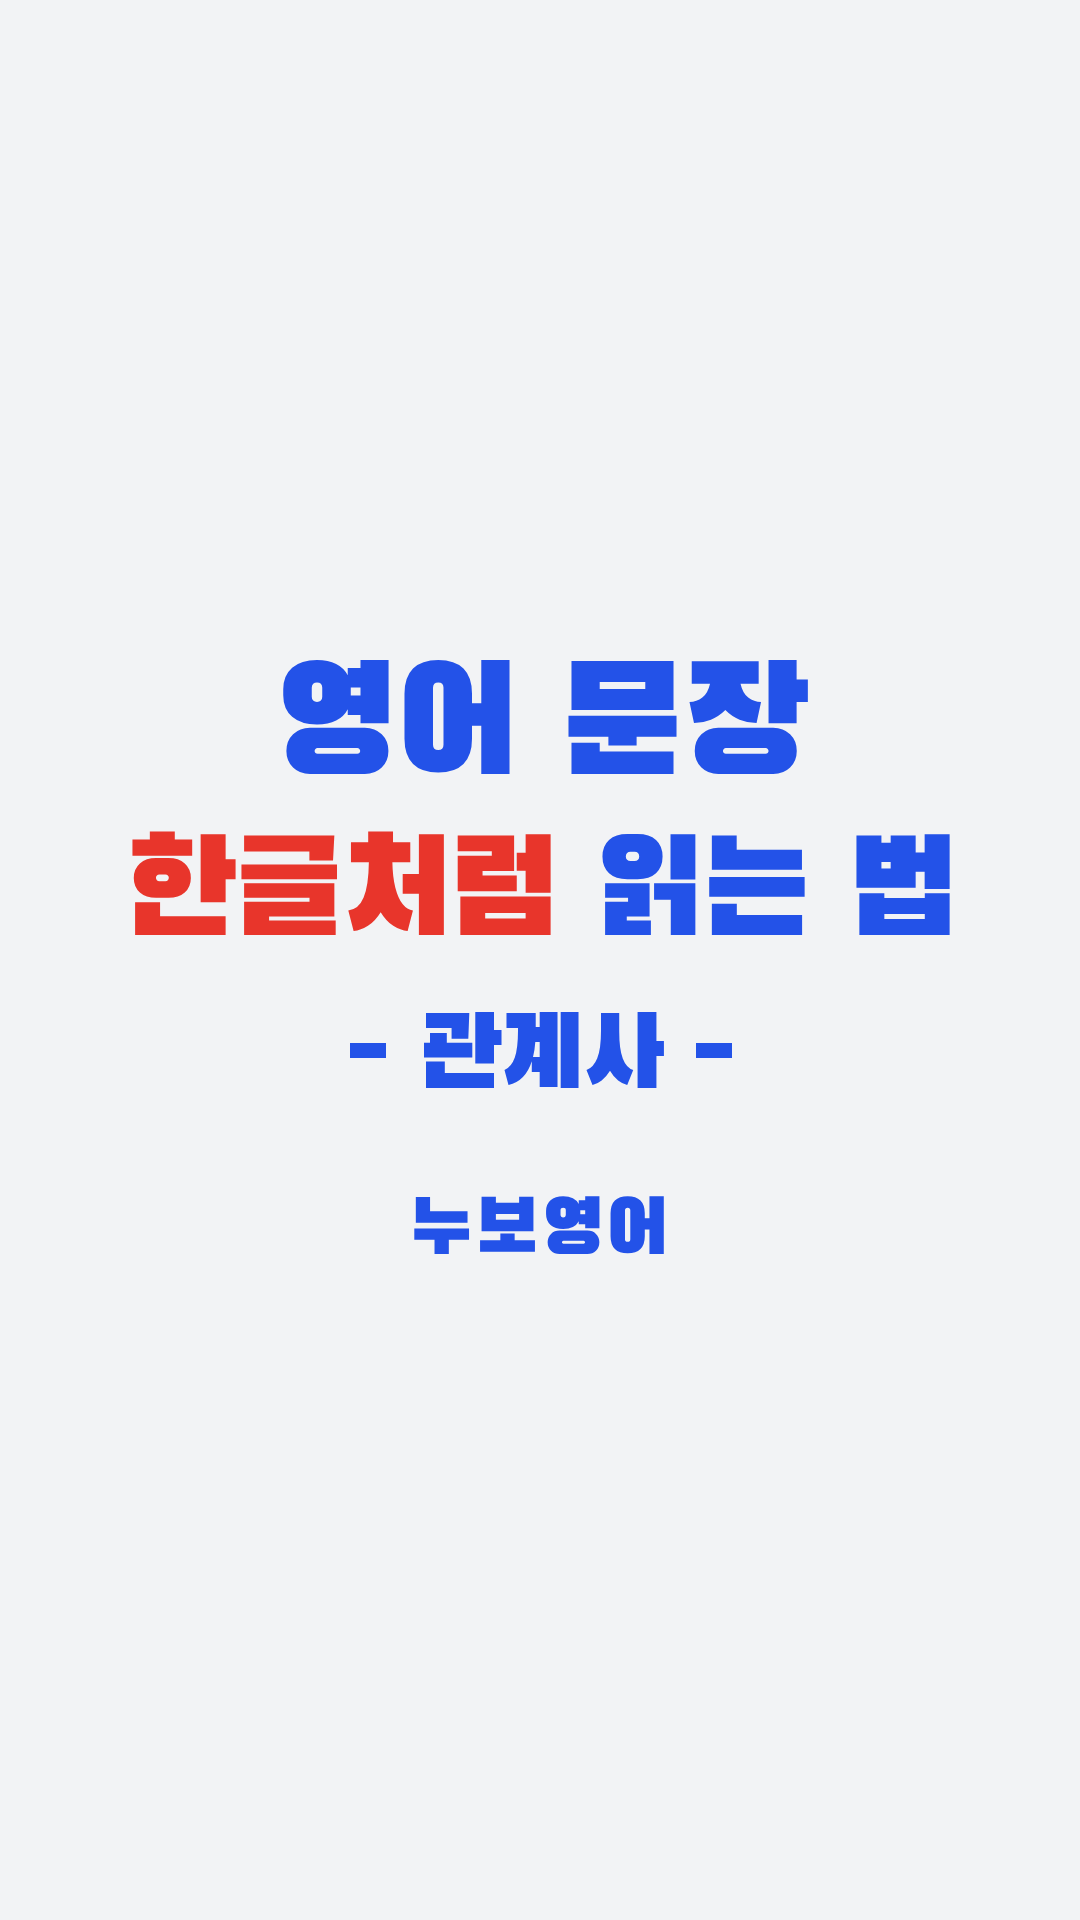
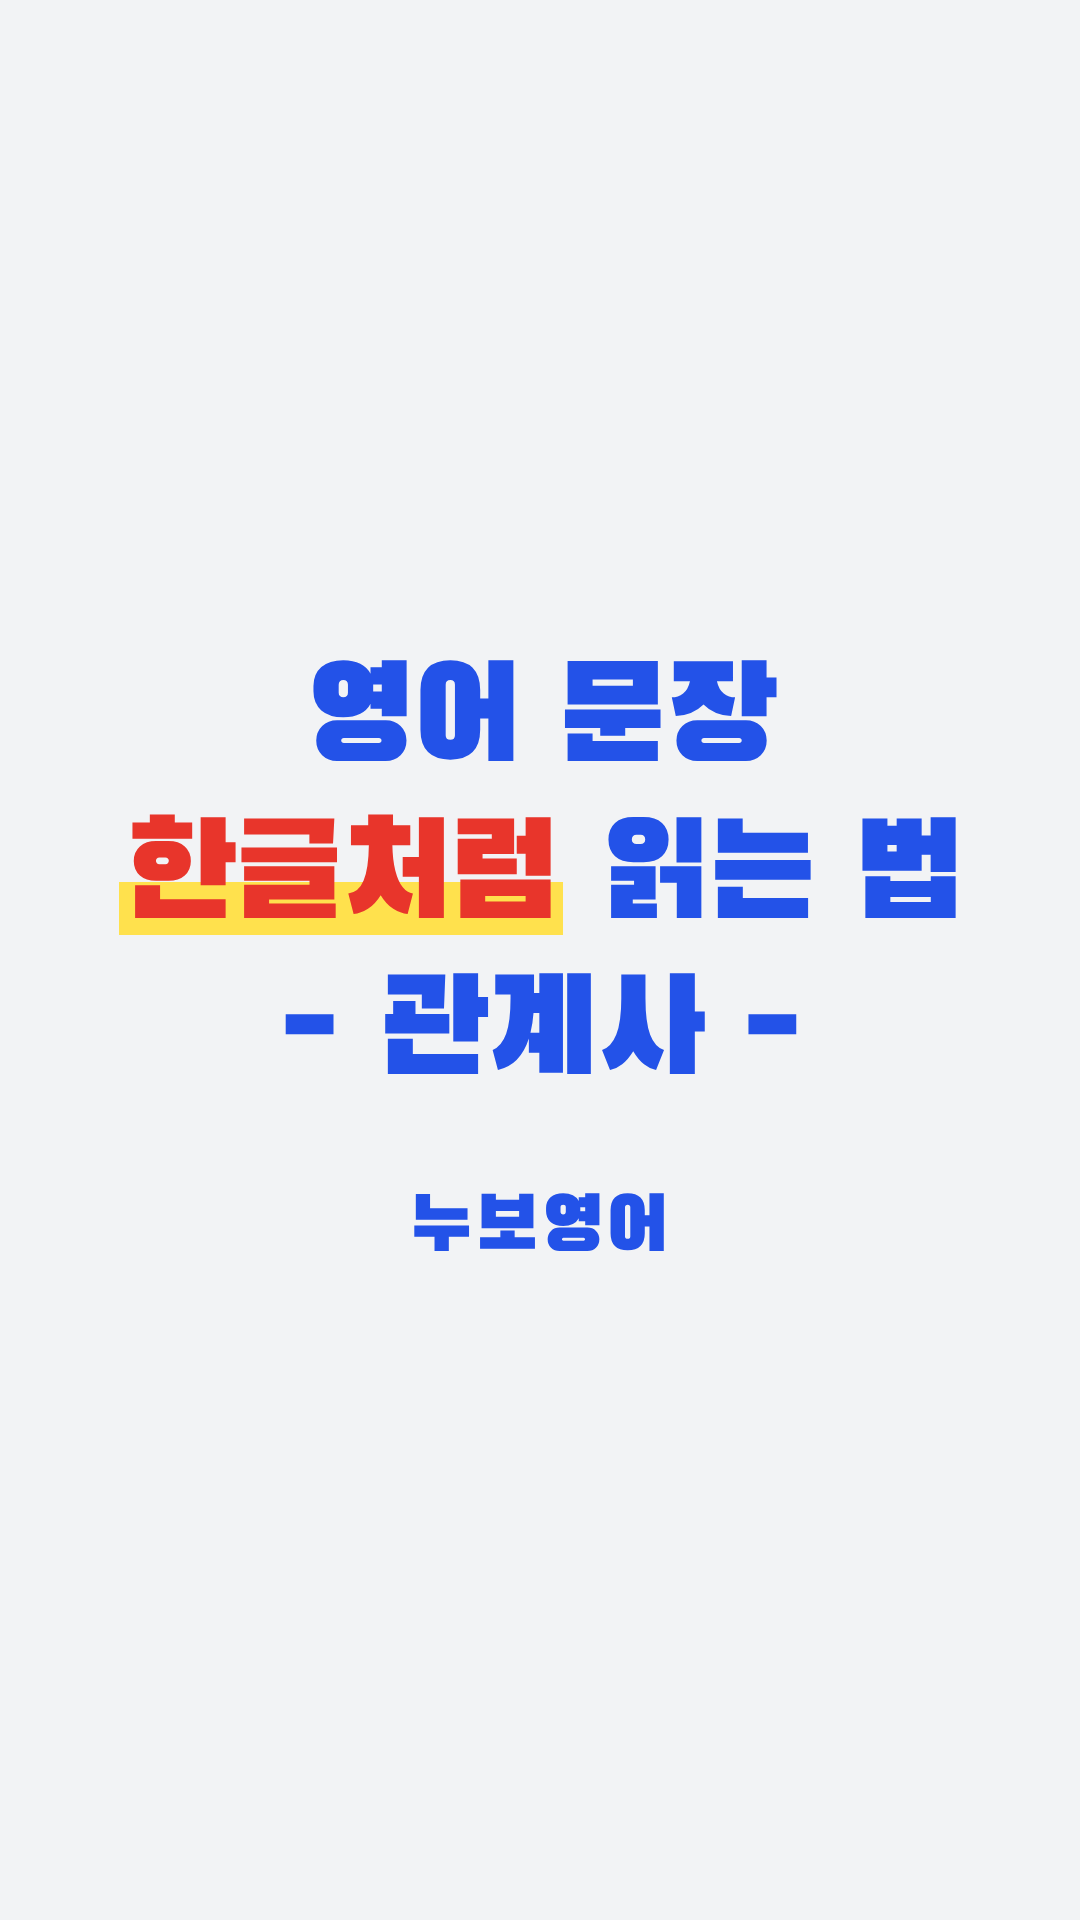
Relative-clause covers: uniform line size, highlighted accent
Claude-Session: https://claude.ai/code/session_01Rym27oCy7NFVPU9s4bdxz4

diff --git a/motion/src/tip/Cover.tsx b/motion/src/tip/Cover.tsx
@@ -5,36 +5,43 @@ import '../fonts';
 
 /** Reel cover. Text stays inside the centre 3:4 area so the profile-grid crop keeps it. Line markup: {accent}. */
 const BLUE = '#2352E8', RED = '#E8352B';
-export type CoverProps = {dark?: boolean; lines?: string[]; bg?: string};
+export type CoverProps = {dark?: boolean; lines?: string[]; bg?: string; uniform?: boolean};
 const DEFAULT = ['해석 못해도', '{주제 1분컷}', '하는 법'];
 
-// A line that is entirely {..} is the big red accent line; {..} inside a line colours just that part.
-const Line: React.FC<{t: string; dark?: boolean}> = ({t: raw, dark}) => {
+const em = (t: string) => [...t.replace(/[{}_]/g, '')].reduce((w, c) => w + (c === ' ' ? 0.3 : /[가-힣]/.test(c) ? 0.98 : 0.6), 0);
+
+// A line that is entirely {..} is the big red accent line; {..} inside a line is the accent word (red on a yellow marker band).
+// With `uniform`, every line uses the same size (the largest that fits the widest line).
+const Line: React.FC<{t: string; dark?: boolean; size?: number}> = ({t: raw, dark, size: forced}) => {
   let t = raw;
   const small = t.startsWith('_');            // '_text' = smaller sub-line
   if (small) t = t.slice(1);
   const whole = /^\{[^}]*\}$/.test(t);
   const base = dark ? '#fff' : BLUE;
-  const em = [...t.replace(/[{}]/g, '')].reduce((w, c) => w + (c === ' ' ? 0.3 : /[가-힣]/.test(c) ? 0.98 : 0.6), 0);
-  const size = Math.min(small ? 100 : whole ? 172 : 150, 990 / em);   // never wider than the frame
+  const size = forced ?? Math.min(small ? 100 : whole ? 172 : 150, 990 / em(t));
   return (
-    <div style={{fontSize: size, color: whole ? RED : base, whiteSpace: 'nowrap', marginTop: small ? 24 : 0}}>
-      {t.split(/(\{[^}]+\})/).filter(Boolean).map((p, i) => p.startsWith('{') ? <span key={i} style={{color: RED}}>{p.slice(1, -1)}</span> : <React.Fragment key={i}>{p}</React.Fragment>)}
+    <div style={{fontSize: size, color: whole ? RED : base, whiteSpace: 'nowrap', marginTop: small && !forced ? 24 : 0}}>
+      {t.split(/(\{[^}]+\})/).filter(Boolean).map((p, i) => p.startsWith('{')
+        ? <span key={i} style={{color: RED, background: 'linear-gradient(transparent 52%, #FFE14D 52%, #FFE14D 92%, transparent 92%)', padding: '0 6px'}}>{p.slice(1, -1)}</span>
+        : <React.Fragment key={i}>{p}</React.Fragment>)}
     </div>
   );
 };
 
-export const Cover: React.FC<CoverProps> = ({dark, lines = DEFAULT, bg = 'cover_bg.jpg'}) => (
+export const Cover: React.FC<CoverProps> = ({dark, lines = DEFAULT, bg = 'cover_bg.jpg', uniform}) => {
+  const same = uniform ? Math.min(150, ...lines.map((l) => 990 / em(l))) : undefined;
+  return (
   <AbsoluteFill style={{background: dark ? '#111' : '#F2F3F5', fontFamily: DISPLAY.heavy, alignItems: 'center', justifyContent: 'center'}}>
     {dark ? (<>
       <Img src={staticFile(bg)} style={{position: 'absolute', inset: 0, width: '100%', height: '100%', objectFit: 'cover', filter: 'blur(6px) brightness(0.3)'}} />
       <div style={{position: 'absolute', inset: 0, background: 'radial-gradient(ellipse at center, rgba(0,0,0,0.15), rgba(0,0,0,0.6))'}} />
     </>) : null}
     <div style={{position: 'relative', textAlign: 'center', lineHeight: 1.18, letterSpacing: -2}}>
-      {lines.map((t, i) => <Line key={i} t={t} dark={dark} />)}
+      {lines.map((t, i) => <Line key={i} t={t} dark={dark} size={same} />)}
       <div style={{marginTop: 70, fontSize: 76, color: dark ? '#fff' : BLUE, letterSpacing: 2}}>
         {dark ? <span style={{background: BLUE, padding: '6px 34px', borderRadius: 999}}>누보영어</span> : '누보영어'}
       </div>
     </div>
   </AbsoluteFill>
 );
+};

diff --git a/motion/src/Root.tsx b/motion/src/Root.tsx
@@ -89,9 +89,9 @@ export const RemotionRoot: React.FC = () => (
     <Composition id="Rp5Reel" component={Annot} fps={30} width={1080} height={1920} durationInFrames={3948}
       defaultProps={{video: 'rp5.mp4', look: 'C', title: '영어 해석\n{되돌아가지 않는} 법', marks: rp5.marks as Mark[], lines: rp5.lines, cards: [], notes: [], cams: rp5.cams}} />
     <Composition id="Rp5CoverLight" component={Cover} fps={30} width={1080} height={1920} durationInFrames={1}
-      defaultProps={{dark: false, lines: ['영어 문장', '{한글처럼} 읽는 법', '_- 관계사 -']}} />
+      defaultProps={{dark: false, lines: ['영어 문장', '{한글처럼} 읽는 법', '- 관계사 -'], uniform: true}} />
     <Composition id="Rp5CoverDark" component={Cover} fps={30} width={1080} height={1920} durationInFrames={1}
-      defaultProps={{dark: true, lines: ['영어 문장', '{한글처럼} 읽는 법', '_- 관계사 -'], bg: 'cover_rp5_bg.jpg'}} />
+      defaultProps={{dark: true, lines: ['영어 문장', '{한글처럼} 읽는 법', '- 관계사 -'], uniform: true, bg: 'cover_rp5_bg.jpg'}} />
     <Composition id="EmoReel" component={Emo} fps={FPS} width={1080} height={1920} durationInFrames={568}
       defaultProps={{video: 'rp_base.mp4', cues: [
         // clip 1: 혹시 올해 수능봐..? / 그렇다면 이 릴스가 / 수능 전 최고의 기회
